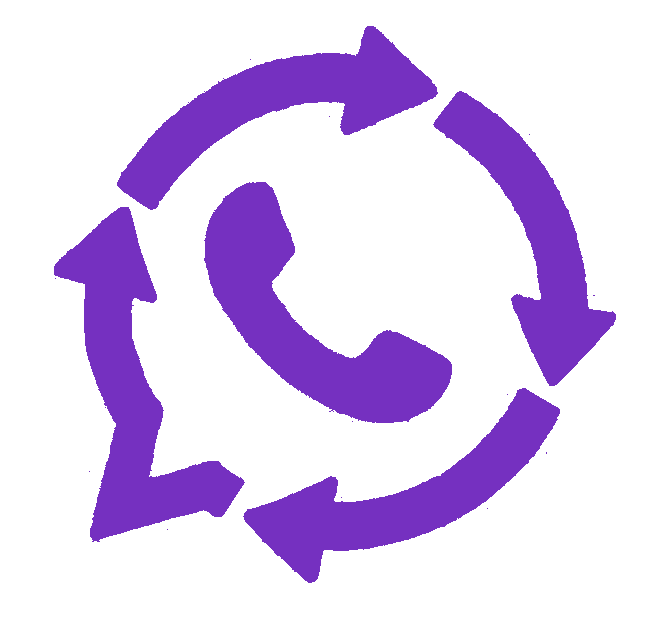
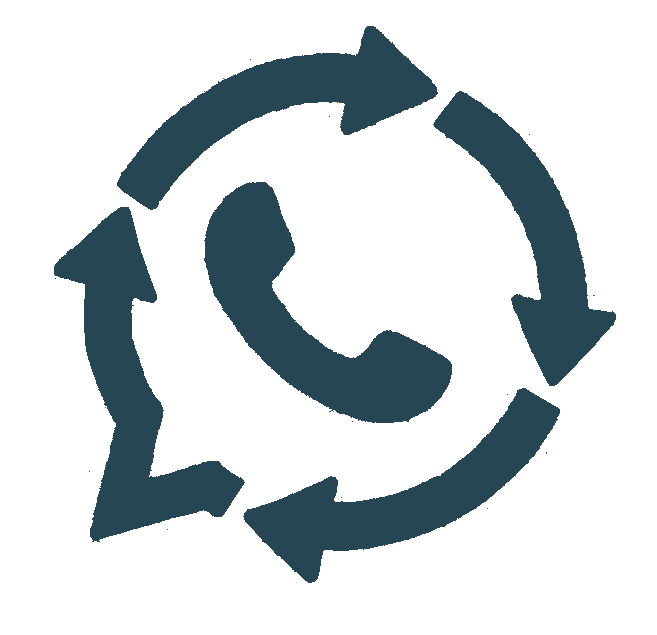
v1.4

Changed region(s): [[0.0609, 0.0299, 0.9437, 0.9276], [0.3044, 0.2693, 0.7002, 0.6882]]

diff --git a/WppSender/css/styles.css b/WppSender/css/styles.css
@@ -1,6 +1,6 @@
 /* Variables globales */
 :root {
-    --input-focus: #7530c0;
+    --input-focus: #264653;
     --font-color: #323232;
     --font-color-sub: #666;
     --bg-color: #fff;
